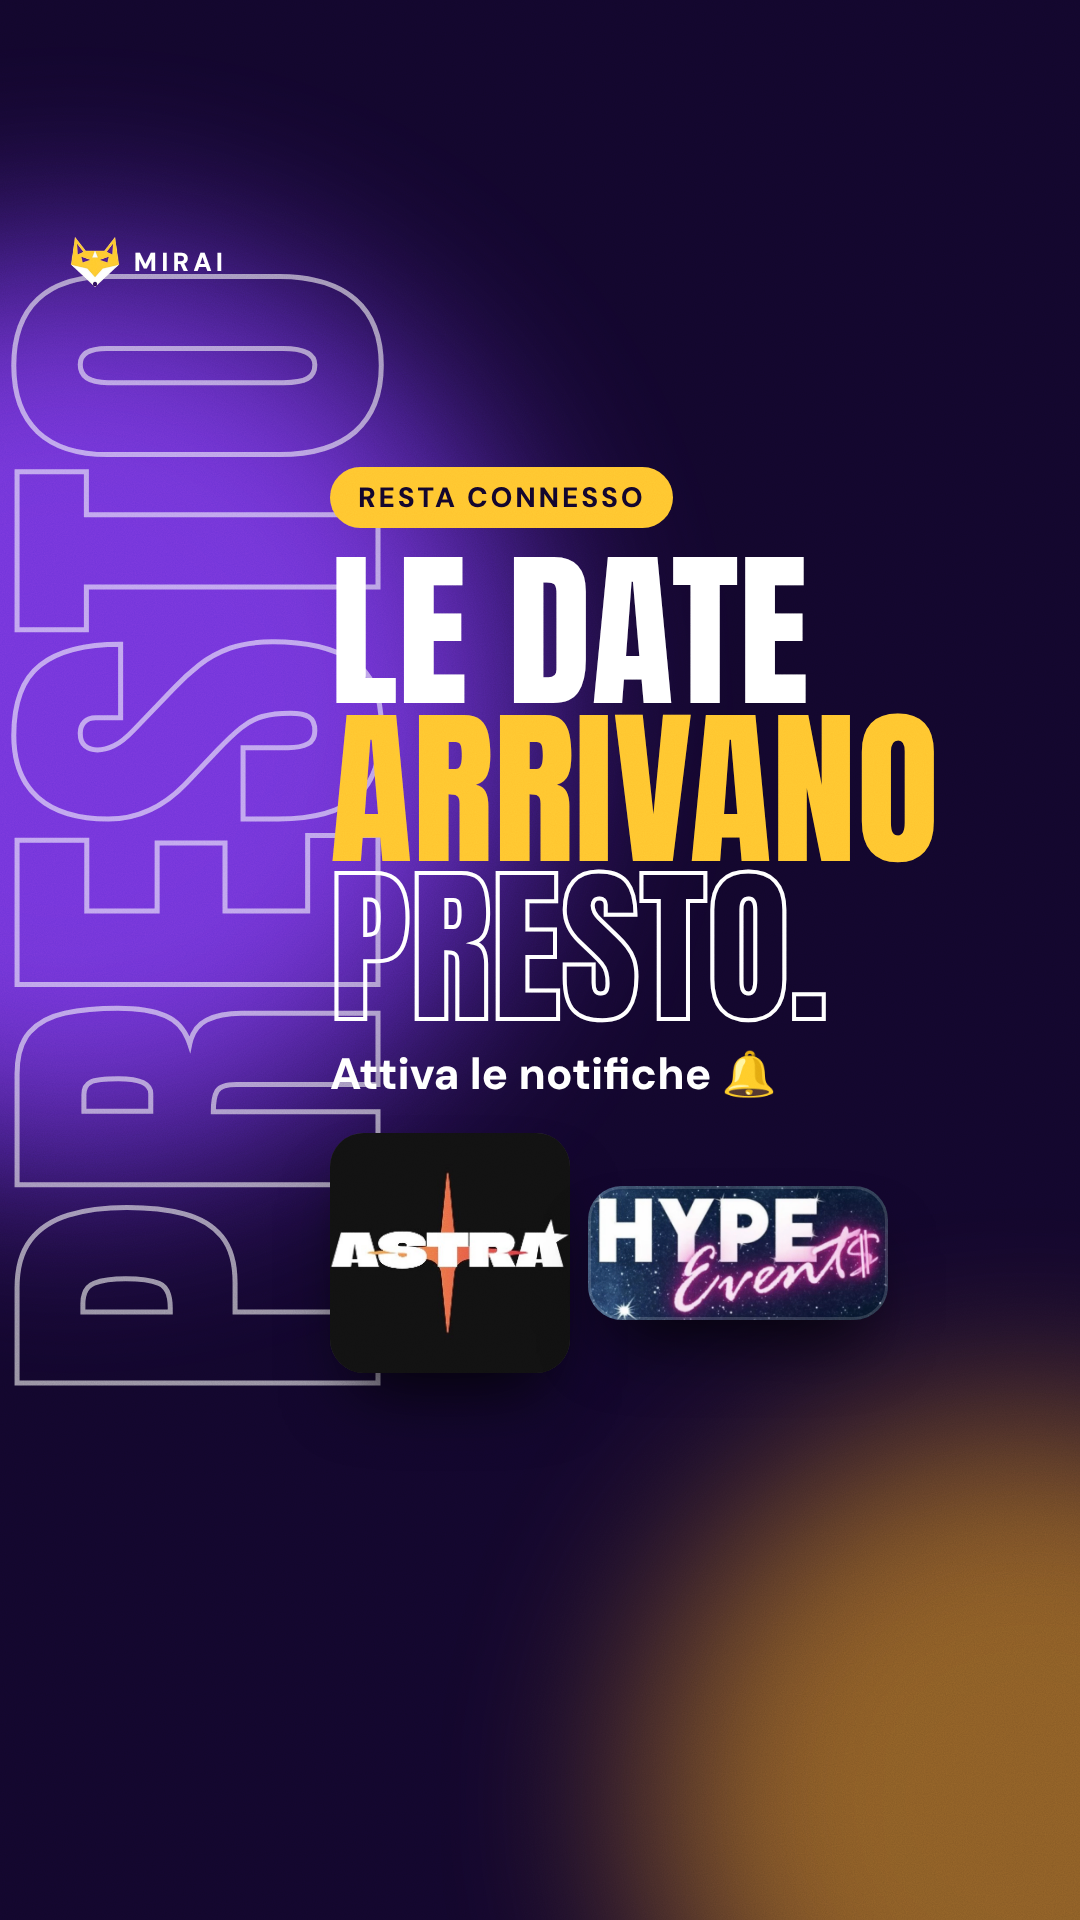
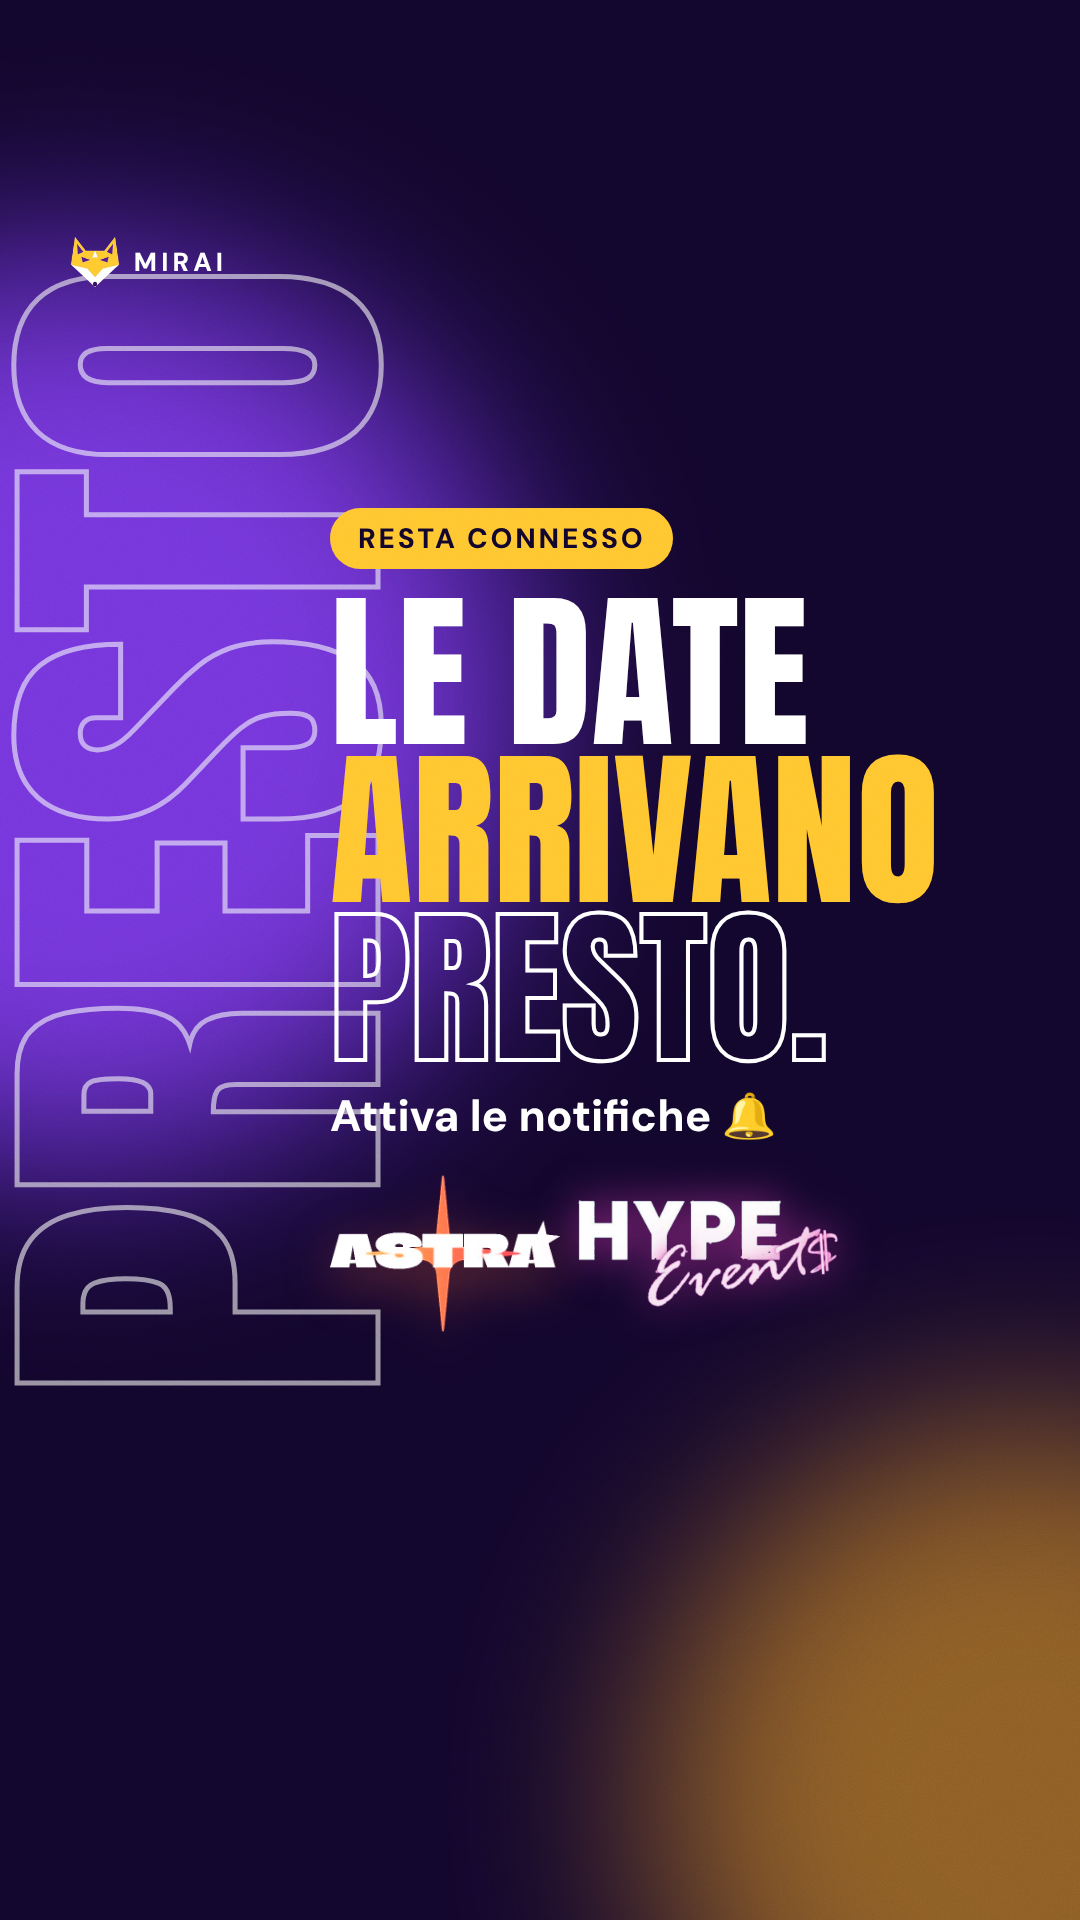
Loghi Astra e Hype ritagliati dallo sfondo e usati senza riquadri
Claude-Session: https://claude.ai/code/session_01GjWaSYZkqZzSe8a8dDrV6x

Changed region(s): [[0.3056, 0.2188, 0.8861, 0.7188]]

diff --git a/social/collab/collab.html b/social/collab/collab.html
@@ -35,10 +35,13 @@ body{background:#000;font-family:"DM Sans",sans-serif}
 .card.astra img{position:absolute;left:50%;top:50%;width:700px;height:700px;margin:-350px 0 0 -350px;object-fit:cover}
 .card.hype{right:50px;top:1130px;width:760px;height:340px;transform:rotate(4deg)}
 .card.hype img{width:100%;height:100%;object-fit:cover;display:block}
-.x{position:absolute;left:560px;top:1010px;z-index:9;width:130px;height:130px;border-radius:50%;background:var(--gold);color:var(--ink);display:grid;place-items:center;font:800 90px/1 "DM Sans";padding-bottom:10px;box-shadow:0 18px 36px -12px rgba(0,0,0,.7)}
-.s2 .side{position:absolute;right:60px;top:690px;width:380px;z-index:8;font:800 54px/1.1 "DM Sans";text-align:right}
+.x{position:absolute;left:480px;top:1050px;z-index:9;width:112px;height:112px;border-radius:50%;background:var(--gold);color:var(--ink);display:grid;place-items:center;font:800 76px/1 "DM Sans";padding-bottom:8px;box-shadow:0 18px 36px -12px rgba(0,0,0,.7)}
+.s2 .side{position:absolute;right:60px;top:720px;width:400px;z-index:8;font:800 54px/1.1 "DM Sans";text-align:right}
 .s2 .side b{display:block;font:400 100px/.95 "Anton";text-transform:uppercase;color:var(--gold)}
 
+.logo-a,.logo-h{position:absolute;z-index:7;display:block}
+.logo-a{filter:drop-shadow(0 14px 26px rgba(255,110,60,.35))}
+.logo-h{filter:drop-shadow(0 0 22px rgba(255,70,200,.55))}
 /* 3 — biglietto */
 .s3 .t1{position:absolute;left:70px;right:70px;top:330px;z-index:8;display:flex;flex-direction:column;gap:20px;align-items:center;text-align:center}
 .ticket{position:absolute;left:90px;top:760px;width:900px;height:560px;z-index:6;transform:rotate(-4deg);filter:drop-shadow(0 40px 50px rgba(0,0,0,.6))}
@@ -80,10 +83,10 @@ body{background:#000;font-family:"DM Sans",sans-serif}
  <div class="s2">
   <div class="brand"><img src="../../assets/fox-96.png" alt="">Mirai</div>
   <div class="t1"><span class="kick">Eventi d’istituto</span><div class="A"><div class="o" data-box="900" data-max="260">Insieme</div></div></div>
-  <div class="card astra shadow"><img src="astra.jpg" alt="Astra"></div>
+  <img class="logo-a" src="astra.png" alt="Astra" style="left:70px;top:690px;width:470px;transform:rotate(-5deg)">
   <div class="side"><b data-box="380" data-max="100">Una</b><b data-box="380" data-max="100">squadra</b>per le serate<br>del Galilei</div>
   <div class="x">×</div>
-  <div class="card hype shadow"><img src="hype.jpg" alt="Hype Events"></div>
+  <img class="logo-h" src="hype.png" alt="Hype Events" style="right:90px;top:1200px;width:520px;transform:rotate(4deg)">
   <div class="handle"><span>@lista.mirai</span><b>Il futuro inizia da noi.</b></div>
  </div>
 </section>
@@ -110,7 +113,7 @@ body{background:#000;font-family:"DM Sans",sans-serif}
   <div class="col"><span class="kick" style="align-self:flex-start">Resta connesso</span>
    <div class="h A" style="display:flex;flex-direction:column"><div class="w" data-box="680" data-max="170">Le date</div><div class="g" data-box="680" data-max="170">arrivano</div><div class="o" data-box="680" data-max="170">presto.</div></div>
    <div class="sub" style="font-size:44px">Attiva le notifiche 🔔</div>
-   <div class="mini"><div class="row"><div class="card a shadow"><img src="astra.jpg" alt="Astra"></div><div class="card h2 shadow" style="width:300px;height:134px"><img src="hype.jpg" alt="Hype Events"></div></div></div>
+   <div class="mini"><div class="row"><img class="logo-a" src="astra.png" alt="Astra" style="position:relative;width:230px"><img class="logo-h" src="hype.png" alt="Hype Events" style="position:relative;width:260px"></div></div>
   </div>
  </div>
 </section>
